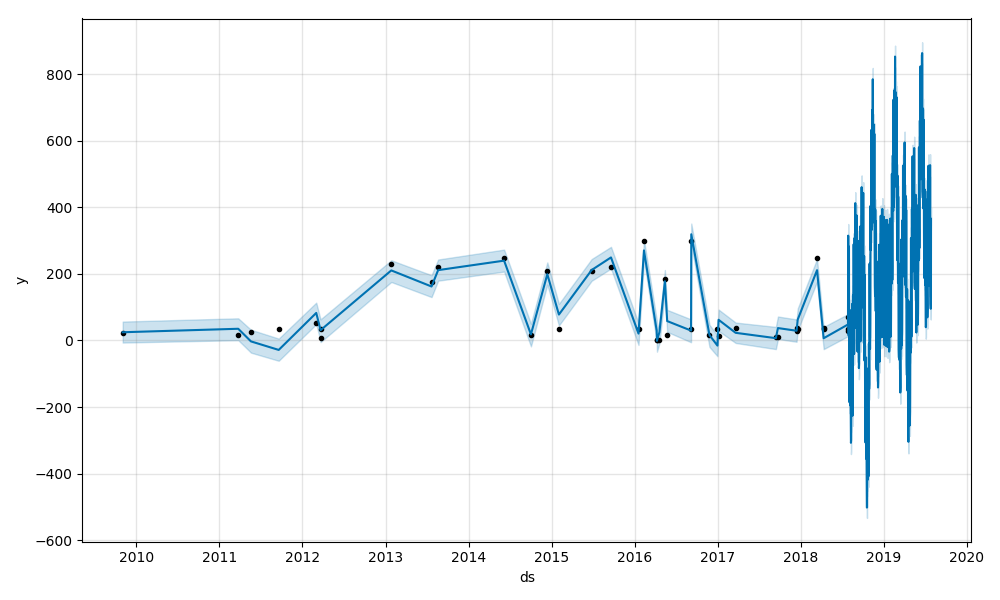
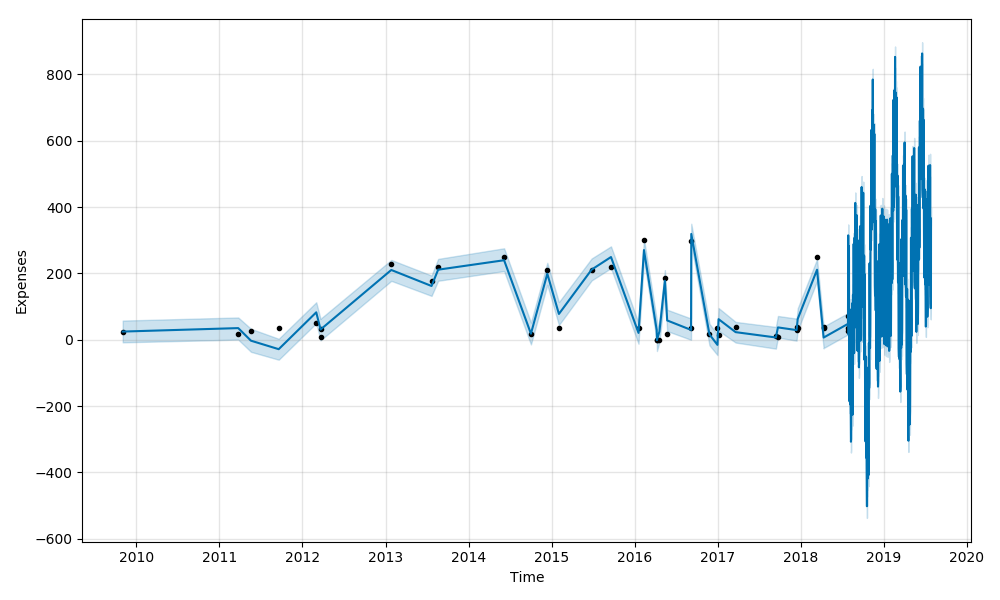
shoppingQueen plotting in 3D - WIP

diff --git a/shoppingQueen/shoppingQueenModeler.py b/shoppingQueen/shoppingQueenModeler.py
@@ -8,9 +8,14 @@ from pydoc import locate
 import pandas as pd
 from fbprophet import Prophet
 
+import matplotlib.pyplot as plt
+from mpl_toolkits.mplot3d import axes3d
+
 sys.path.append(os.getcwd()+'/../lib')
 from collector import Collector
 from logger import Logger
+
+import defs
 
 class ShoppingQueenModeler:
 
@@ -29,7 +34,26 @@ class ShoppingQueenModeler:
         forecast = m.predict(future)
         forecast[['ds', 'yhat', 'yhat_lower', 'yhat_upper']].tail()
         #%matplotlib inline
-        fig1 = m.plot(forecast)
+        fig1 = m.plot(forecast, ax=None, uncertainty=True, plot_cap=True, xlabel=defs.COL_DS_LABEL, ylabel=defs.COL_Y_LABEL)
         fig2 = m.plot_components(forecast)
-        fig1.savefig(os.path.join(self.datadir, self.source + '.plot.png'))
+        fig3 = m.plot(forecast, ax=None, uncertainty=True, plot_cap=True, xlabel=defs.COL_DS_LABEL, ylabel=defs.COL_Y_LABEL)
+        #self.logger.log("fig1 is a "+fig1.__class__.__name__)  ->  fig1 is a Figure
+        fig1.savefig(os.path.join(self.datadir, self.source + '.plot.png')) #matplotlib.pyplot.savefig
+        #fig3.savefig(os.path.join(self.datadir, self.source + '.plot.certain.png')) #matplotlib.pyplot.savefig
         fig2.savefig(os.path.join(self.datadir, self.source + '.plot_components.png'))
+
+        #self.render3d(fig3, collector)
+
+    def render3d(self, fig, collector):
+        ax = fig.add_subplot(111, projection='3d')
+        #X, Y, Z = axes3d.get_test_data(0.1)    #TODO: get data out of .df
+        #//TODO: //WIP
+        ax.plot_wireframe(collector.df[defs.COL_DS], collector.df[defs.COL_Y], collector.df, rstride=5, cstride=5)
+
+        # rotate the axes and update
+        #for angle in range(0, 360):
+        #    ax.view_init(30, angle)
+        #    plt.draw()
+        #    plt.pause(.001)
+
+        fig.savefig(os.path.join(self.datadir, self.source + '.plot3d.png'))

diff --git a/shoppingQueen/defs.py b/shoppingQueen/defs.py
@@ -5,3 +5,6 @@ COL_Y = 'y'
 COL_CUMSUM = 'cumsum'
 COLS2EXTRACT = [COL_DATE, COL_COSTS]
 COLSDESTINATION = [COL_DS, COL_Y, COL_CUMSUM]
+
+COL_Y_LABEL = 'Expenses'
+COL_DS_LABEL = 'Time'
